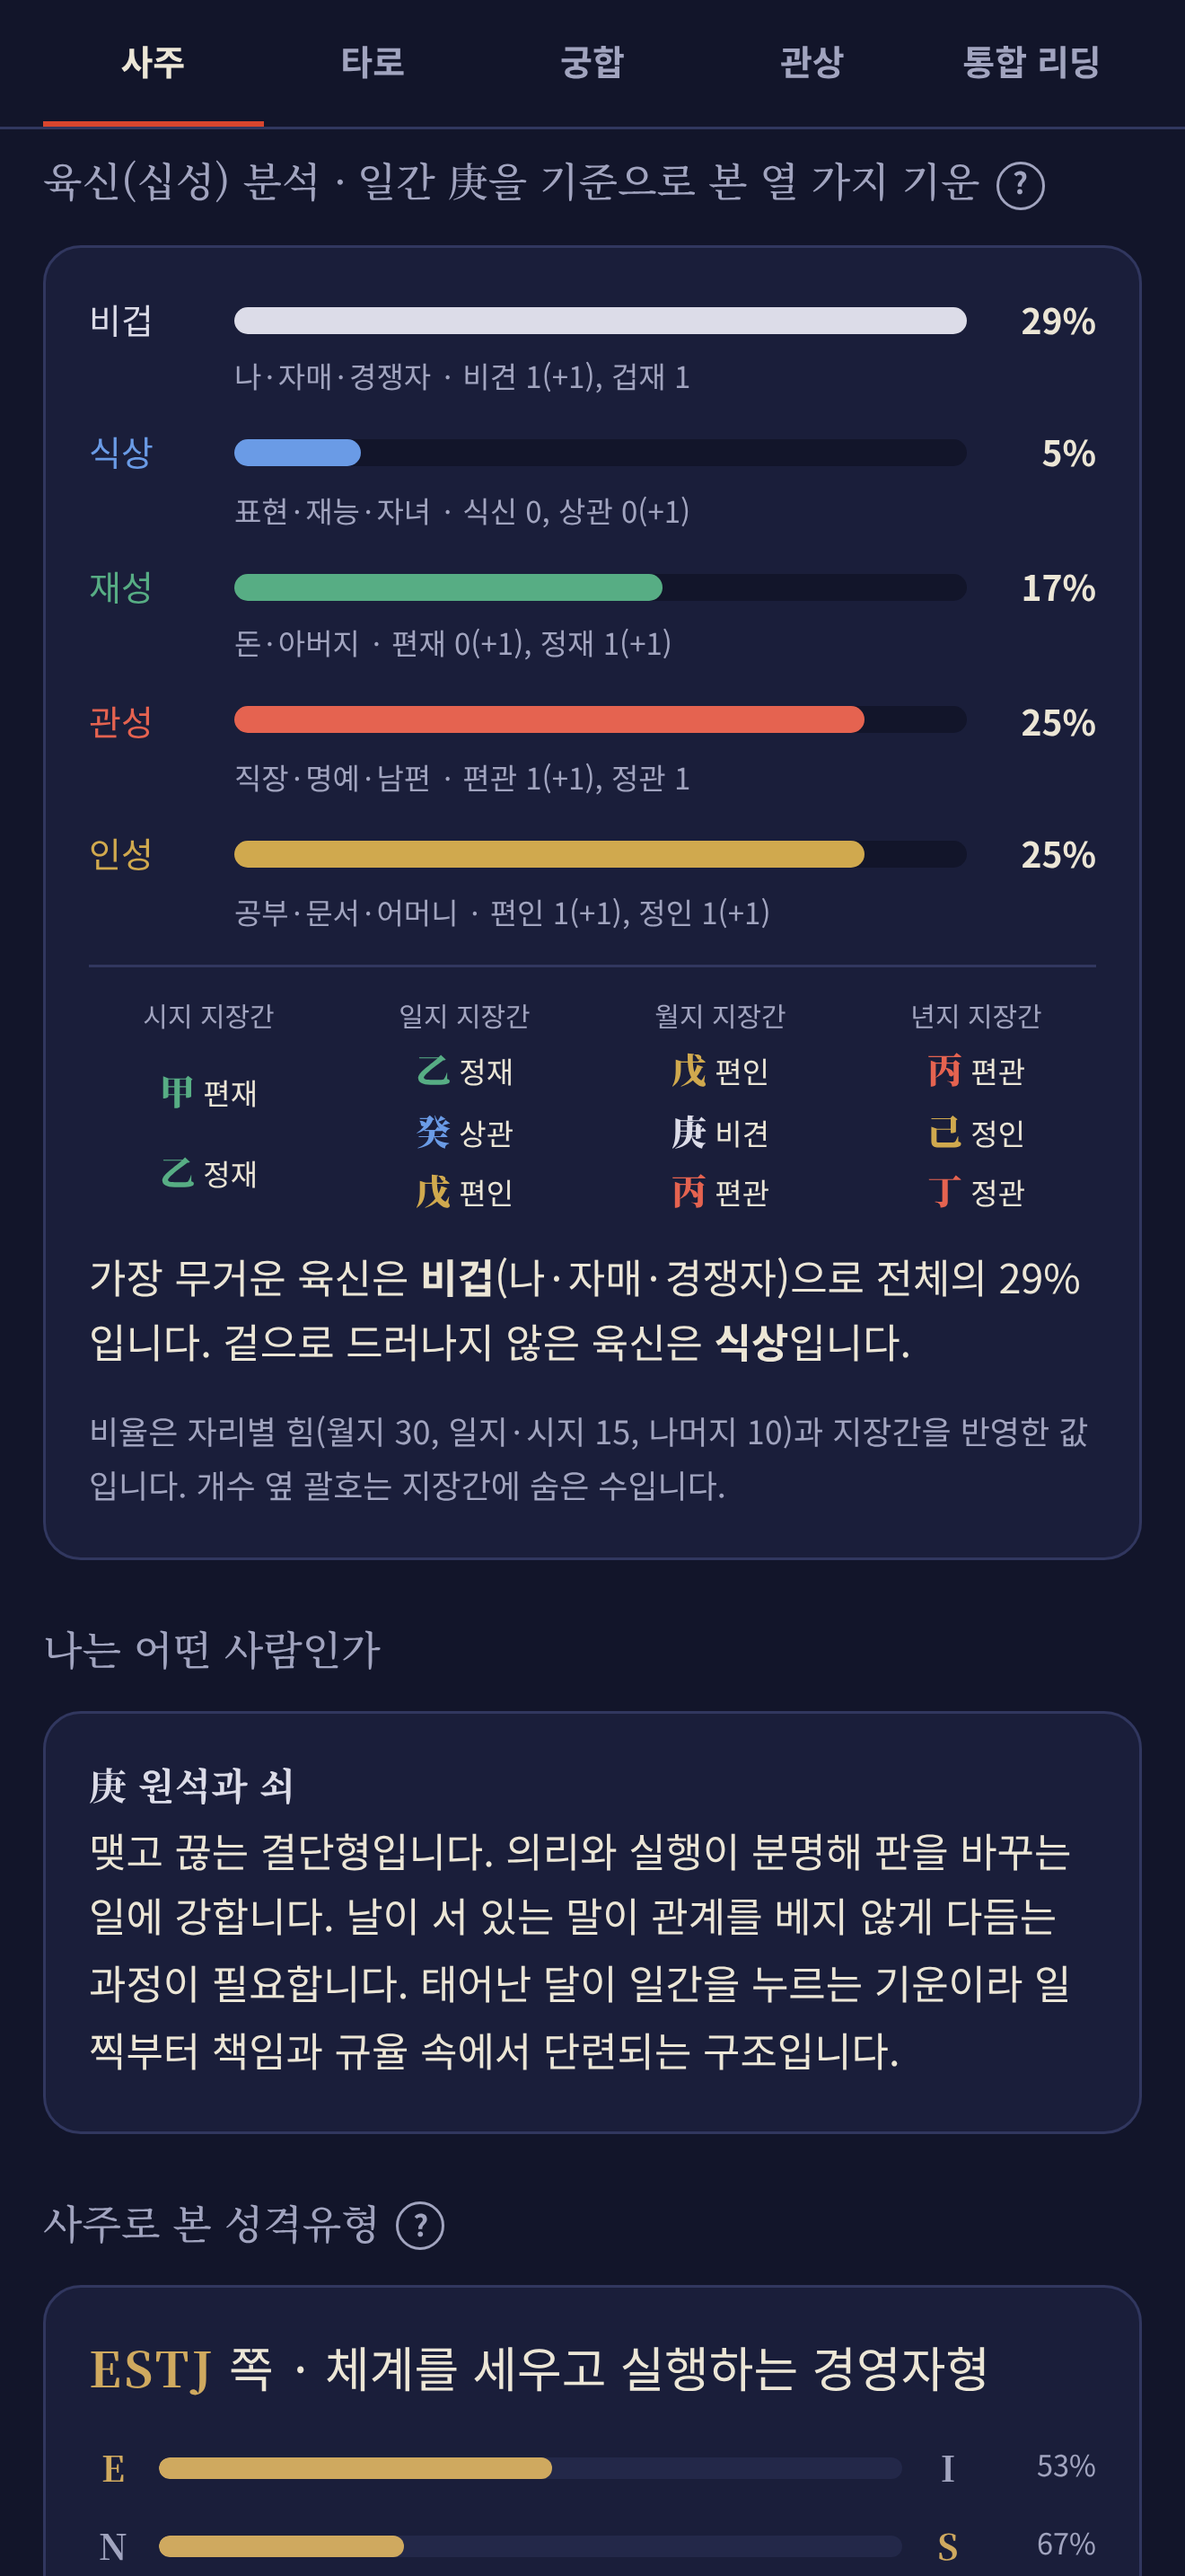
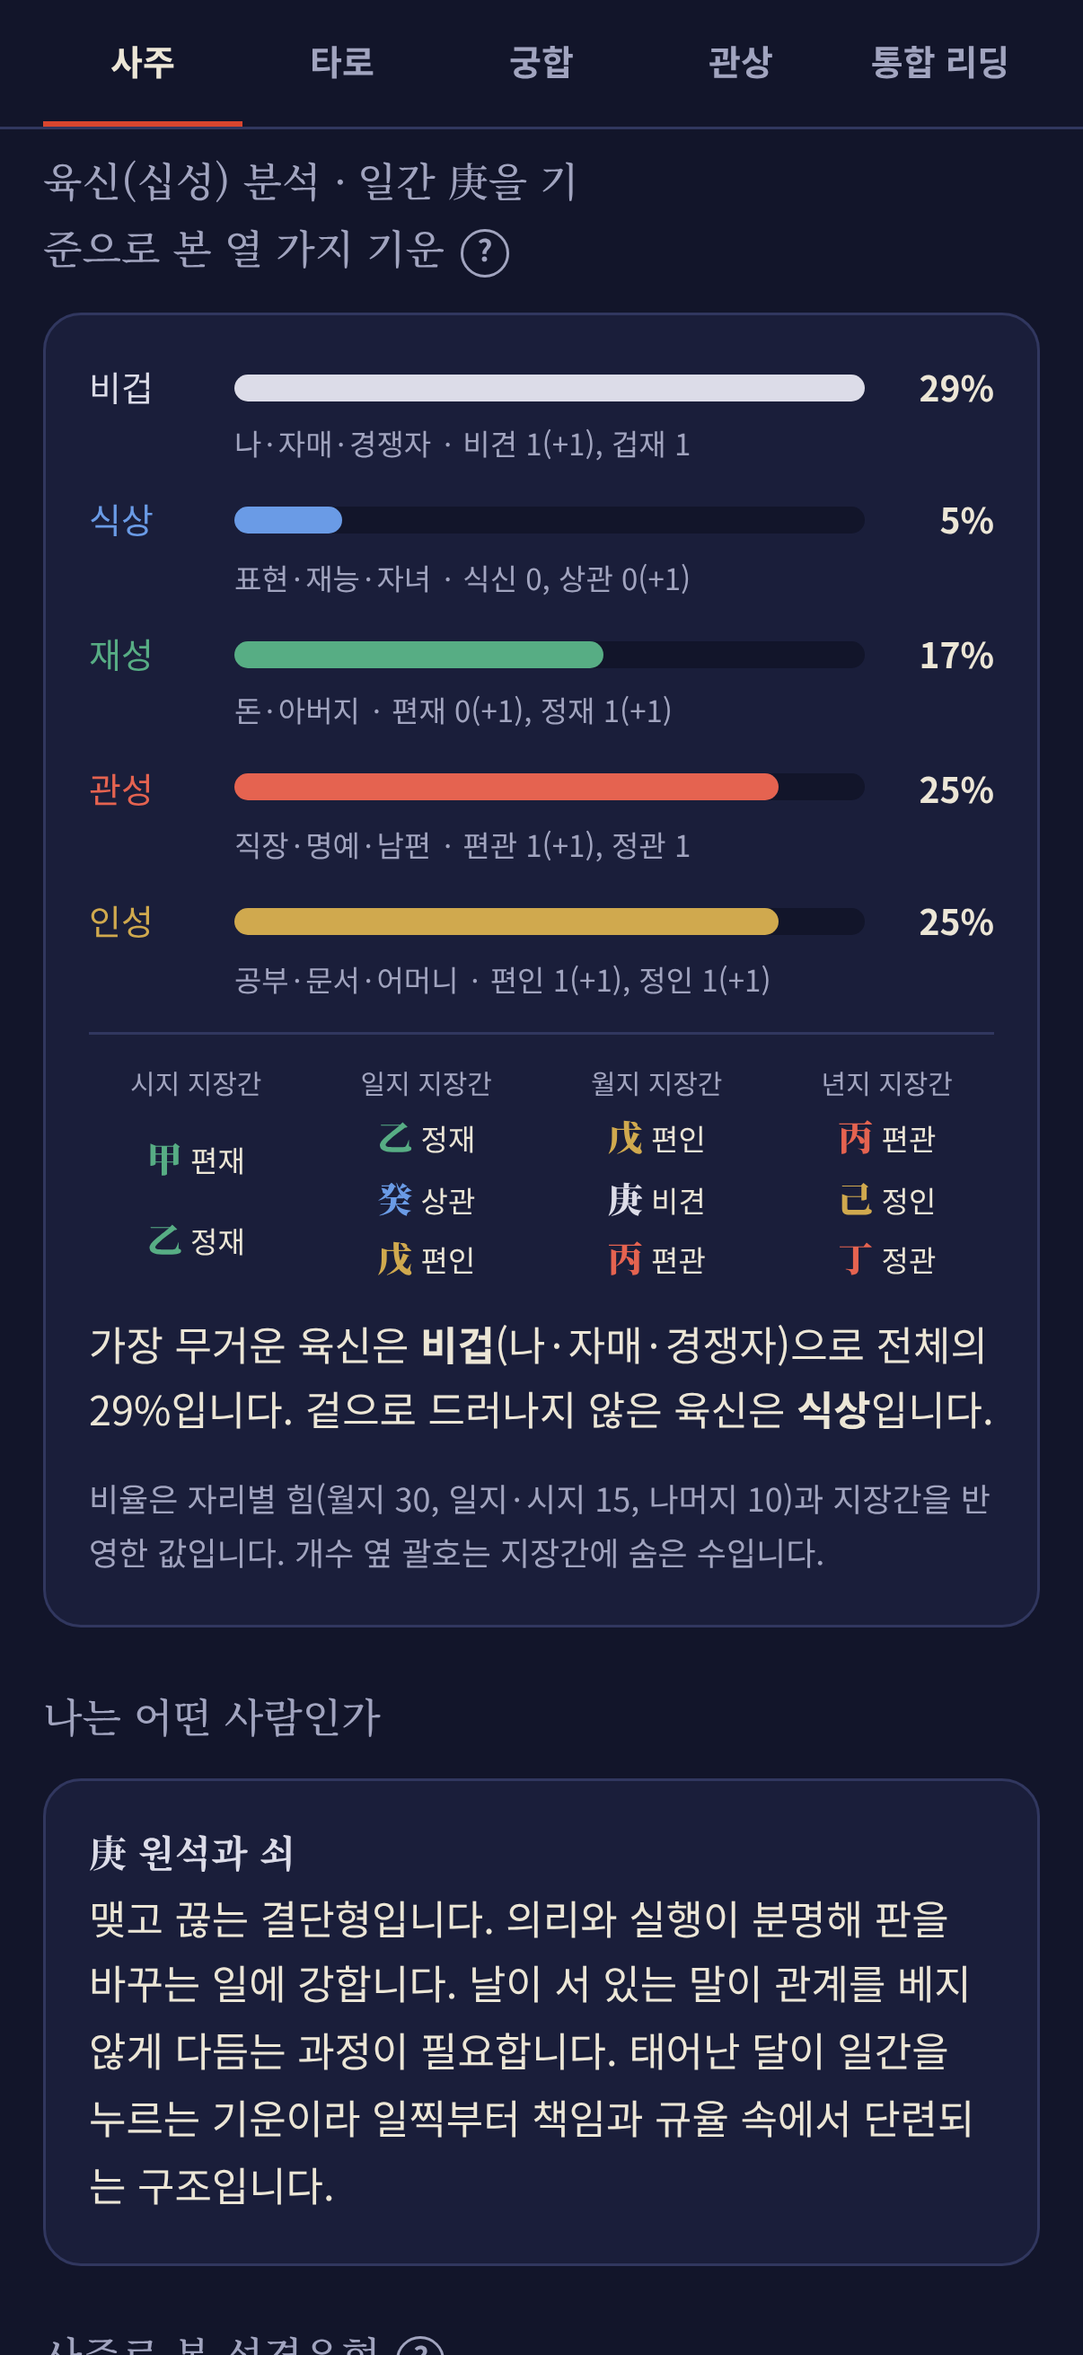
애플용 스크린샷을 App Store Connect가 받는 1206x2622로 다시 생성
Claude-Session: https://claude.ai/code/session_01QACgwmPwTTV6X5ASPwkZ8c

diff --git a/scripts/make-screenshots.py b/scripts/make-screenshots.py
@@ -1,9 +1,9 @@
 # 스토어용 휴대전화 스크린샷을 만든다. 실행: npm run build && python3 scripts/make-screenshots.py (playwright 필요)
 #   인자 없음: 안드로이드용 1080x1920 -> store/screenshots
-#   ios      : 애플 6.9인치용 1320x2868 -> store/ios-screenshots
+#   ios      : 애플 아이폰용 1206x2622(App Store Connect의 Dynamic Island 지원 iPhone 칸) -> store/ios-screenshots
 import asyncio, os, shutil, sys
 IOS = len(sys.argv) > 1 and sys.argv[1] == 'ios'
-W, H, OUT = (440, 956, 'store/ios-screenshots/') if IOS else (360, 640, 'store/screenshots/')
+W, H, OUT = (402, 874, 'store/ios-screenshots/') if IOS else (360, 640, 'store/screenshots/')
 os.makedirs(OUT, exist_ok=True)
 from playwright.async_api import async_playwright
 CHROME = shutil.which('google-chrome') or shutil.which('chromium')

diff --git a/docs/store-listing-ios.md b/docs/store-listing-ios.md
@@ -82,7 +82,7 @@ App Store Connect에 그대로 붙여 넣는 값. 구글플레이용은 `store-l
 - 지원 URL: https://parksang-jun.github.io/deungbul/privacy.html (문의 이메일이 적혀 있다. 지원 전용 페이지를 따로 만들면 그 주소로 바꾼다)
 - 개인정보처리방침 URL: https://parksang-jun.github.io/deungbul/privacy.html
 - 저작권: `2026 Martin park`
-- 스크린샷: `store/ios-screenshots`의 8장(1320x2868, 6.9인치 칸). 6.5인치 칸은 비워도 6.9인치 것을 줄여 쓴다
+- 스크린샷: `store/ios-screenshots`의 8장(1206x2622, "Dynamic Island 지원 iPhone" 칸)
 
 ## 앱 내 구입
 

diff --git a/docs/release-notes/1.5.1.md b/docs/release-notes/1.5.1.md
@@ -5,5 +5,5 @@
 ## 내부 기록
 
 - 화면의 가격 표시("유료 990원")를 스토어에서 받은 실제 가격으로 맞춘다. 아이폰에서 990원이 아닌 값으로 등록해도 표시가 어긋나지 않는다
-- 애플용 스크린샷(`store/ios-screenshots`, 1320x2868)과 등록 문구(`docs/store-listing-ios.md`) 추가
+- 애플용 스크린샷(`store/ios-screenshots`, 1206x2622)과 등록 문구(`docs/store-listing-ios.md`) 추가
 - iOS 컴파일 확인 워크플로 추가
